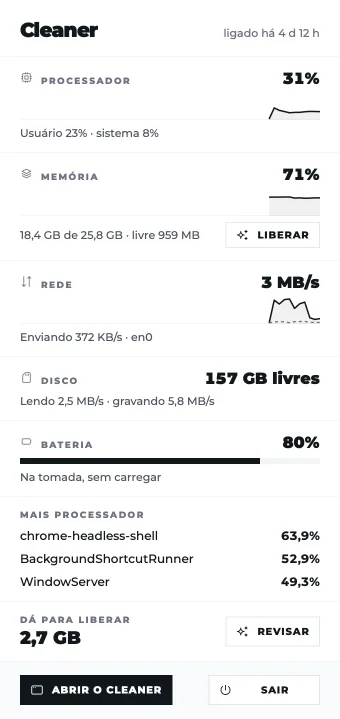
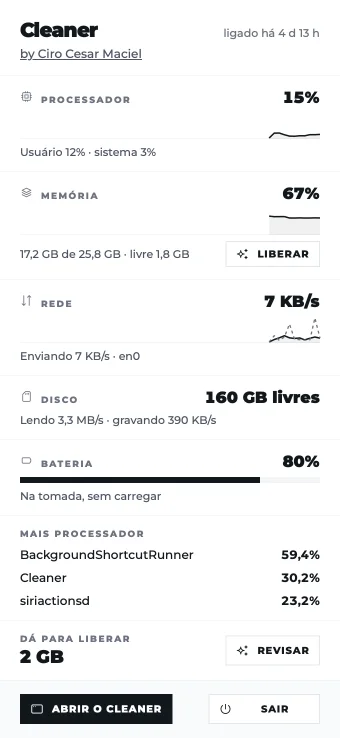
feat: by ciro cesar maciel under the wordmark, in the window and the menu bar panel
The disk image opens as "Cleaner by Ciro Cesar Maciel"; the file and the
installed app keep the short name. 0.2.2.

diff --git a/Sources/Cleaner/UI/CleanerApp.swift b/Sources/Cleaner/UI/CleanerApp.swift
@@ -233,8 +233,11 @@ struct Sidebar: View {
 
     var body: some View {
         VStack(alignment: .leading, spacing: 0) {
-            // Room for the window buttons, then the wordmark (28px).
-            Text("Cleaner").zenDisplay(28)
+            // Room for the window buttons, then the wordmark (28px) and who made it.
+            VStack(alignment: .leading, spacing: 6) {
+                Text("Cleaner").zenDisplay(28)
+                MakerLink(source: "oss-cleaner-app")
+            }
                 .padding(.top, 52)
                 .padding(.horizontal, 24)
                 .padding(.bottom, 32)
@@ -258,19 +261,8 @@ struct Sidebar: View {
                 }
                 .buttonStyle(.plain)
                 .help(model.hasFullDiskAccess ? "Ver as permissões" : "Abrir a lista do Acesso Total ao Disco nos Ajustes do Sistema")
-                // The maker's name opens his site in the browser: a link, not network code
-                // (the app itself never talks to the internet).
-                HStack(spacing: 0) {
-                    Text("Versão \(Bundle.main.infoDictionary?["CFBundleShortVersionString"] as? String ?? "dev") · ")
-                        .zenData(12, color: Zen.gray5)
-                    Button {
-                        if let url = URL(string: "https://ciromaciel.click/?ref=oss-cleaner-app") { NSWorkspace.shared.open(url) }
-                    } label: {
-                        Text("por Ciro Cesar Maciel").zenData(12, color: Zen.gray7).underline()
-                    }
-                    .buttonStyle(.plain)
-                    .help("Mais ferramentas do Ciro, em ciromaciel.click")
-                }
+                Text("Versão \(Bundle.main.infoDictionary?["CFBundleShortVersionString"] as? String ?? "dev")")
+                    .zenData(12, color: Zen.gray5)
             }
             .padding(24)
             .frame(maxWidth: .infinity, alignment: .leading)

diff --git a/Sources/Cleaner/UI/Theme.swift b/Sources/Cleaner/UI/Theme.swift
@@ -297,3 +297,20 @@ struct CheckBox: View {
              size: 18, color: state == .off ? Zen.gray4 : Zen.gray9)
     }
 }
+
+/// "by Ciro Cesar Maciel" under the wordmark. It opens his site in the browser: a link the person
+/// clicks, not network code (the app itself never talks to the internet). `source` tells his
+/// scoreboard which corner of the app the visit came from.
+struct MakerLink: View {
+    let source: String
+
+    var body: some View {
+        Button {
+            if let url = URL(string: "https://ciromaciel.click/?ref=\(source)") { NSWorkspace.shared.open(url) }
+        } label: {
+            Text("by Ciro Cesar Maciel").zenData(12, color: Zen.gray6).underline()
+        }
+        .buttonStyle(.plain)
+        .help("Mais ferramentas do Ciro, em ciromaciel.click")
+    }
+}

diff --git a/Sources/Cleaner/UI/MenuPanel.swift b/Sources/Cleaner/UI/MenuPanel.swift
@@ -12,7 +12,10 @@ struct MenuPanel: View {
         let cap = monitor.historyLength
         VStack(alignment: .leading, spacing: 0) {
             HStack(alignment: .firstTextBaseline) {
-                Text("Cleaner").zenDisplay(20)
+                VStack(alignment: .leading, spacing: 4) {
+                    Text("Cleaner").zenDisplay(20)
+                    MakerLink(source: "oss-cleaner-menubar")
+                }
                 Spacer()
                 Text("ligado há \(Format.uptime(s.uptime))").zenData(11, color: Zen.gray5)
             }
